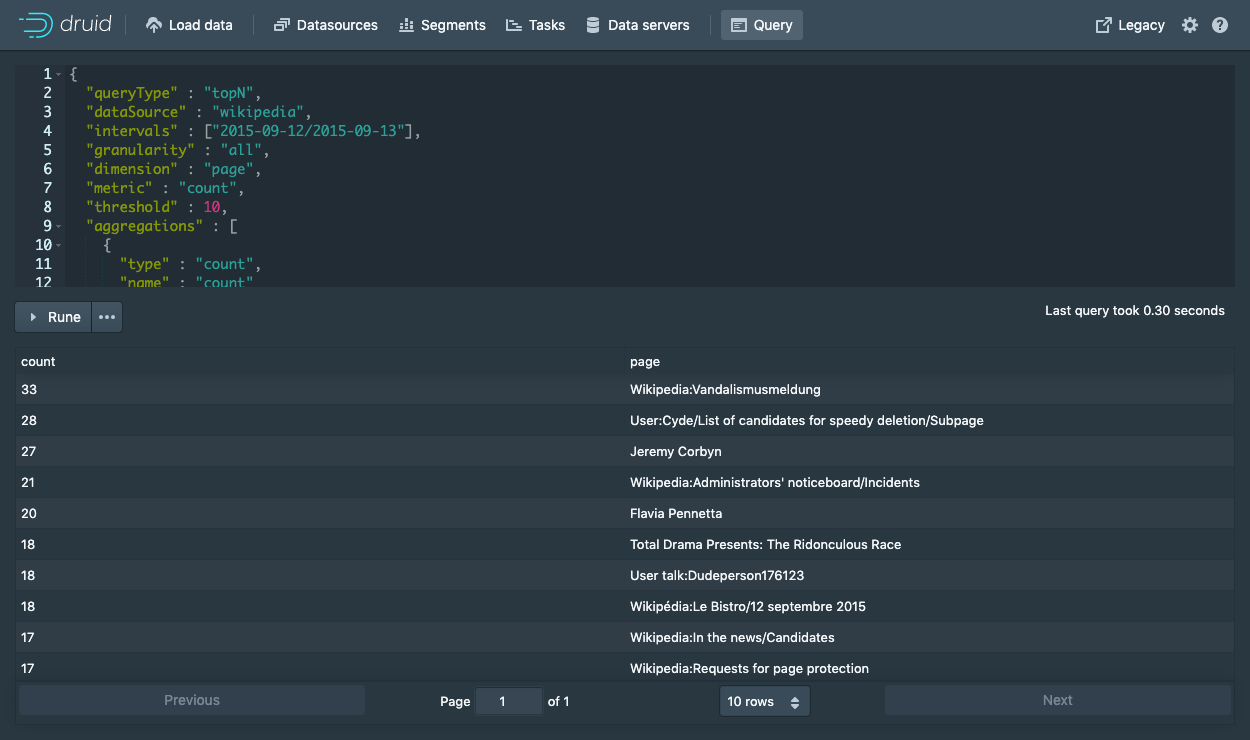
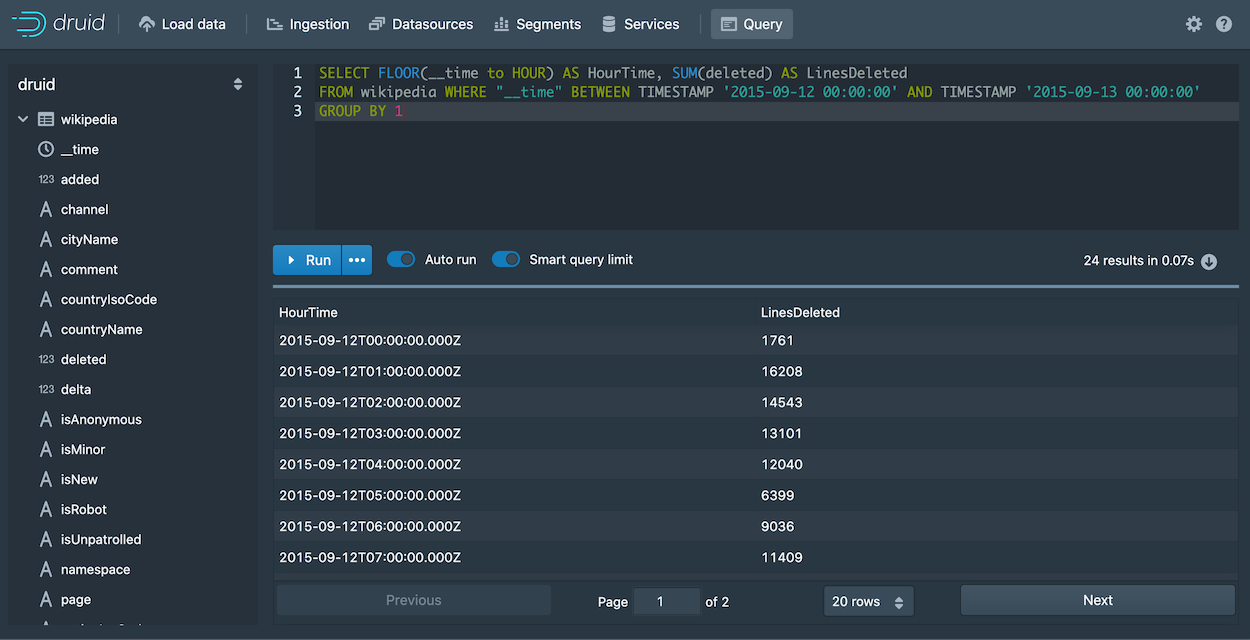
Querying doc refresh tutorial (#9879)
* Update tutorial-query.md

* First full pass complete

* Smoothing over, a bit

* link and spell checking

* Update querying.md

* Review comments; screenshot fixes

* Making ports consistent, pending confirmation 

Switching to the Router port, to make this be consistent with the tutorial ports, but can switch back here and there if it should be 8082 instead.

* Resizing screenshot

* Update querying.md

* Review feedback incorporated.

diff --git a/docs/tutorials/tutorial-query.md b/docs/tutorials/tutorial-query.md
@@ -24,56 +24,164 @@ sidebar_label: "Querying data"
   -->
 
 
-This tutorial will demonstrate how to query data in Apache Druid, with examples for Druid SQL and Druid's native query format.
+This tutorial demonstrates how to query data in Apache Druid using SQL.  
 
-The tutorial assumes that you've already completed one of the 4 ingestion tutorials, as we will be querying the sample Wikipedia edits data.
+It assumes that you've completed the [Quickstart](../tutorials/index.md) 
+or one of the following tutorials, since we'll query datasources that you would have created
+by following one of them:
 
 * [Tutorial: Loading a file](../tutorials/tutorial-batch.md)
 * [Tutorial: Loading stream data from Kafka](../tutorials/tutorial-kafka.md)
 * [Tutorial: Loading a file using Hadoop](../tutorials/tutorial-batch-hadoop.md)
 
-Druid queries are sent over HTTP.
-The Druid console includes a view to issue queries to Druid and nicely format the results.
+There are various ways to run Druid SQL queries: from the Druid console, using a command line utility
+and by posting the query by HTTP. We'll look at each of these. 
 
-## Druid SQL queries
 
-Druid supports a dialect of SQL for querying.
+## Query SQL from the Druid console
 
-This query retrieves the 10 Wikipedia pages with the most page edits on 2015-09-12.
+The Druid console includes a view that makes it easier to build and test queries, and 
+view their results. 
+
+1. Start up the Druid cluster, if it's not already running, and open the Druid console in your web
+browser. 
+
+2. Click **Query** from the header to open the Query view:  
+
+   ![Query view](../assets/tutorial-query-01.png "Query view")
+
+   You can always write queries directly in the edit pane, but the Query view also provides 
+   facilities to help you construct SQL queries, which we will use to generate a starter query. 
+
+3. Expand the wikipedia datasource tree in the left pane. We'll
+create a query for the page dimension.  
+
+4. Click `page` and then **Show:page** from the menu: 
+
+   ![Query select page](../assets/tutorial-query-02.png "Query select page")
+
+   A SELECT query appears in the query edit pane and immediately runs. However, in this case, the query 
+   returns no data, since by default the query filters for data from the last day, while our data is considerably
+   older than that. Let's remove the filter.  
+
+5. In the datasource tree, click `__time` and **Remove Filter**. 
+
+   ![Clear WHERE filter](../assets/tutorial-query-03.png "Clear WHERE filter")
+
+6. Click **Run** to run the query.   
+
+   You should now see two columns of data, a page name and the count:
+
+   ![Query results](../assets/tutorial-query-04.png "Query results")
+
+   Notice that the results are limited in the console to about a hundred, by default, due to the **Smart query limit** 
+   feature. This helps users avoid inadvertently running queries that return an excessive amount of data, possibly
+   overwhelming their system. 
+
+7. Let's edit the query directly and take a look at a few more query building features in the editor. 
+   Click in the query edit pane and make the following changes: 
+
+   1.  Add a line after the first column, `"page"` and Start typing the name of a new column, `"countryName"`. Notice that the autocomplete menu suggests column names, functions, keywords, and more. Choose "countryName" and 
+add the new column to the GROUP BY clause as well, either by name or by reference to its position, `2`.  
+
+   2. For readability, replace `Count` column name with `Edits`, since the `COUNT()` function actually
+returns the number of edits for the page. Make the same column name change in the ORDER BY clause as well. 
+
+      The `COUNT()` function is one of many functions available for use in Druid SQL queries. You can mouse over a function name
+      in the autocomplete menu to see a brief description of a function. Also, you can find more information in the Druid 
+      documentation; for example, the `COUNT()` function is documented in 
+      [Aggregation functions](../querying/sql.md#aggregation-functions). 
+
+   The query should now be:
+
+   ```sql
+   SELECT
+     "page",
+     "countryName",
+     COUNT(*) AS "Edits"
+   FROM "wikipedia"
+   GROUP BY 1, 2
+   ORDER BY "Edits" DESC
+   ``` 
+
+   When you run the query again, notice that we're getting the new dimension,`countryName`, but for most of the rows, its value 
+   is null. Let's 
+   show only rows with a `countryName` value.
+
+8. Click the countryName dimension in the left pane and choose the first filtering option. It's not exactly what we want, but
+we'll edit it by hand. The new WHERE clause should appear in your query. 
+
+8. Modify the WHERE clause to exclude results that do not have a value for countryName: 
+
+   ```sql
+   WHERE "countryName" IS NOT NULL
+   ``` 
+   Run the query again. You should now see the top edits by country:  
+
+   ![Finished query](../assets/tutorial-query-035.png "Finished query")
+
+9. Under the covers, every Druid SQL query is translated into a query in the JSON-based _Druid native query_ format before it runs
+ on data nodes. You can view the native query for this query by clicking `...` and **Explain SQL Query**. 
+
+   While you can use Druid SQL for most purposes, familiarity with native query is useful for composing complex queries and for troubleshooting 
+performance issues. For more information, see [Native queries](../querying/querying.md). 
+
+   ![Explain query](../assets/tutorial-query-06.png "Explain query")
+
+    > Another way to view the explain plan is by adding EXPLAIN PLAN FOR to the front of your query, as follows:
+    >
+    >```sql
+    >EXPLAIN PLAN FOR
+    >SELECT
+    >  "page",
+    >  "countryName",
+    >  COUNT(*) AS "Edits"
+    >FROM "wikipedia"
+    >WHERE "countryName" IS NOT NULL
+    >GROUP BY 1, 2
+    >ORDER BY "Edits" DESC
+    >```
+    >This is particularly useful when running queries 
+    from the command line or over HTTP.
+
+
+9. Finally, click  `...`  and **Edit context** to see how you can add additional parameters controlling the execution of the query execution. In the field, enter query context options as JSON key-value pairs, as described in [Context flags](../querying/query-context.md).  
+
+That's it! We've built a simple query using some of the query builder features built into the Druid Console. The following
+sections provide a few more example queries you can try. Also, see [Other ways to invoke SQL queries](#other-ways-to-invoke-sql-queries) to learn how
+to run Druid SQL from the command line or over HTTP. 
+
+## More Druid SQL examples
+
+Here is a collection of queries to try out:
+
+### Query over time
 
 ```sql
-SELECT page, COUNT(*) AS Edits
-FROM wikipedia
-WHERE TIMESTAMP '2015-09-12 00:00:00' <= "__time" AND "__time" < TIMESTAMP '2015-09-13 00:00:00'
-GROUP BY page
-ORDER BY Edits DESC
-LIMIT 10
+SELECT FLOOR(__time to HOUR) AS HourTime, SUM(deleted) AS LinesDeleted
+FROM wikipedia WHERE "__time" BETWEEN TIMESTAMP '2015-09-12 00:00:00' AND TIMESTAMP '2015-09-13 00:00:00'
+GROUP BY 1
 ```
 
-Let's look at the different ways to issue this query.
+![Query example](../assets/tutorial-query-07.png "Query example")
 
-### Query SQL via the console
+### General group by
 
-You can issue the above query from the console.
+```sql
+SELECT channel, page, SUM(added)
+FROM wikipedia WHERE "__time" BETWEEN TIMESTAMP '2015-09-12 00:00:00' AND TIMESTAMP '2015-09-13 00:00:00'
+GROUP BY channel, page
+ORDER BY SUM(added) DESC
+```
 
-![Query autocomplete](../assets/tutorial-query-01.png "Query autocomplete")
+![Query example](../assets/tutorial-query-08.png "Query example")
 
-The console query view provides autocomplete functionality with inline documentation.
 
-![Query options](../assets/tutorial-query-02.png "Query options")
-
-You can also configure extra [context flags](../querying/query-context.md) to be sent with the query from the `...` options menu.
-
-Note that the console will (by default) wrap your SQL queries in a limit where appropriate so that queries such as `SELECT * FROM wikipedia` can complete.
-You can turn off this behavior from the `Smart query limit` toggle.
-
-![Query actions](../assets/tutorial-query-03.png "Query actions")
-
-The query view provides contextual actions that can write and modify the query for you. 
+## Other ways to invoke SQL queries
 
 ### Query SQL via dsql
 
-For convenience, the Druid package includes a SQL command-line client, located at `bin/dsql` from the Druid package root.
+For convenience, the Druid package includes a SQL command-line client, located at `bin/dsql` in the Druid package root.
 
 Let's now run `bin/dsql`; you should see the following prompt:
 
@@ -107,7 +215,8 @@ Retrieved 10 rows in 0.06s.
 
 ### Query SQL over HTTP
 
-The SQL queries are submitted as JSON over HTTP.
+
+You can submit queries directly to the Druid Broker over HTTP. 
 
 The tutorial package includes an example file that contains the SQL query shown above at `quickstart/tutorial/wikipedia-top-pages-sql.json`. Let's submit that query to the Druid Broker:
 
@@ -162,150 +271,8 @@ The following results should be returned:
 ]
 ```
 
-### More Druid SQL examples
-
-Here is a collection of queries to try out:
-
-#### Query over time
-
-```sql
-SELECT FLOOR(__time to HOUR) AS HourTime, SUM(deleted) AS LinesDeleted
-FROM wikipedia WHERE "__time" BETWEEN TIMESTAMP '2015-09-12 00:00:00' AND TIMESTAMP '2015-09-13 00:00:00'
-GROUP BY 1
-```
-
-![Query example](../assets/tutorial-query-03.png "Query example")
-
-#### General group by
-
-```sql
-SELECT channel, page, SUM(added)
-FROM wikipedia WHERE "__time" BETWEEN TIMESTAMP '2015-09-12 00:00:00' AND TIMESTAMP '2015-09-13 00:00:00'
-GROUP BY channel, page
-ORDER BY SUM(added) DESC
-```
-
-![Query example](../assets/tutorial-query-04.png "Query example")
-
-#### Select raw data
-
-```sql
-SELECT user, page
-FROM wikipedia WHERE "__time" BETWEEN TIMESTAMP '2015-09-12 02:00:00' AND TIMESTAMP '2015-09-12 03:00:00'
-LIMIT 5
-```
-
-![Query example](../assets/tutorial-query-05.png "Query example")
-
-### Explain query plan
-
-Druid SQL has the ability to explain the query plan for a given query.
-In the console this functionality is accessible from the `...` button.
-
-![Explain query](../assets/tutorial-query-06.png "Explain query")
-
-If you are querying in other ways you can get the plan by prepending `EXPLAIN PLAN FOR ` to a Druid SQL query.
-
-Using a query from an example above:
-
-`EXPLAIN PLAN FOR SELECT page, COUNT(*) AS Edits FROM wikipedia WHERE "__time" BETWEEN TIMESTAMP '2015-09-12 00:00:00' AND TIMESTAMP '2015-09-13 00:00:00' GROUP BY page ORDER BY Edits DESC LIMIT 10;`
-
-```bash
-dsql> EXPLAIN PLAN FOR SELECT page, COUNT(*) AS Edits FROM wikipedia WHERE "__time" BETWEEN TIMESTAMP '2015-09-12 00:00:00' AND TIMESTAMP '2015-09-13 00:00:00' GROUP BY page ORDER BY Edits DESC LIMIT 10;
-┌─────────────────────────────────────────────────────────────────────────────────────────────────────────────────────────────────────────────────────────────────────────────────────────────────────────────────────────────────────────────────────────────────────────────────────────────────────────────────────────────────────────────────────────────────────────────────────────────────────────────────────────────────────────────────────────────────────────────────────────────────────────────────────────────────────────────────────────┐
-│ PLAN                                                                                                                                                                                                                                                                                                                                                                                                                                                                                                                                                    │
-├─────────────────────────────────────────────────────────────────────────────────────────────────────────────────────────────────────────────────────────────────────────────────────────────────────────────────────────────────────────────────────────────────────────────────────────────────────────────────────────────────────────────────────────────────────────────────────────────────────────────────────────────────────────────────────────────────────────────────────────────────────────────────────────────────────────────────────────┤
-│ DruidQueryRel(query=[{"queryType":"topN","dataSource":{"type":"table","name":"wikipedia"},"virtualColumns":[],"dimension":{"type":"default","dimension":"page","outputName":"d0","outputType":"STRING"},"metric":{"type":"numeric","metric":"a0"},"threshold":10,"intervals":{"type":"intervals","intervals":["2015-09-12T00:00:00.000Z/2015-09-13T00:00:00.001Z"]},"filter":null,"granularity":{"type":"all"},"aggregations":[{"type":"count","name":"a0"}],"postAggregations":[],"context":{},"descending":false}], signature=[{d0:STRING, a0:LONG}]) │
-└─────────────────────────────────────────────────────────────────────────────────────────────────────────────────────────────────────────────────────────────────────────────────────────────────────────────────────────────────────────────────────────────────────────────────────────────────────────────────────────────────────────────────────────────────────────────────────────────────────────────────────────────────────────────────────────────────────────────────────────────────────────────────────────────────────────────────────────┘
-Retrieved 1 row in 0.03s.
-```
-
-
-## Native JSON queries
-
-Druid's native query format is expressed in JSON.
-
-### Native query via the console
-
-You can issue native Druid queries from the console's Query view.
-
-Here is a query that retrieves the 10 Wikipedia pages with the most page edits on 2015-09-12.
-
-```json
-{
-  "queryType" : "topN",
-  "dataSource" : "wikipedia",
-  "intervals" : ["2015-09-12/2015-09-13"],
-  "granularity" : "all",
-  "dimension" : "page",
-  "metric" : "count",
-  "threshold" : 10,
-  "aggregations" : [
-    {
-      "type" : "count",
-      "name" : "count"
-    }
-  ]
-}
-```
-
-Simply paste it into the console to switch the editor into JSON mode.
-
-![Native query](../assets/tutorial-query-07.png "Native query")
-
-
-### Native queries over HTTP
-
-We have included a sample native TopN query under `quickstart/tutorial/wikipedia-top-pages.json`:
-
-Let's submit this query to Druid:
-
-```bash
-curl -X 'POST' -H 'Content-Type:application/json' -d @quickstart/tutorial/wikipedia-top-pages.json http://localhost:8888/druid/v2?pretty
-```
-
-You should see the following query results:
-
-```json
-[ {
-  "timestamp" : "2015-09-12T00:46:58.771Z",
-  "result" : [ {
-    "count" : 33,
-    "page" : "Wikipedia:Vandalismusmeldung"
-  }, {
-    "count" : 28,
-    "page" : "User:Cyde/List of candidates for speedy deletion/Subpage"
-  }, {
-    "count" : 27,
-    "page" : "Jeremy Corbyn"
-  }, {
-    "count" : 21,
-    "page" : "Wikipedia:Administrators' noticeboard/Incidents"
-  }, {
-    "count" : 20,
-    "page" : "Flavia Pennetta"
-  }, {
-    "count" : 18,
-    "page" : "Total Drama Presents: The Ridonculous Race"
-  }, {
-    "count" : 18,
-    "page" : "User talk:Dudeperson176123"
-  }, {
-    "count" : 18,
-    "page" : "Wikipédia:Le Bistro/12 septembre 2015"
-  }, {
-    "count" : 17,
-    "page" : "Wikipedia:In the news/Candidates"
-  }, {
-    "count" : 17,
-    "page" : "Wikipedia:Requests for page protection"
-  } ]
-} ]
-```
-
-
 ## Further reading
 
-The [Queries documentation](../querying/querying.md) has more information on Druid's native JSON queries.
+See the [Druid SQL documentation](../querying/sql.md) for more information on using Druid SQL queries.
 
-The [Druid SQL documentation](../querying/sql.md) has more information on using Druid SQL queries.
+See the [Queries documentation](../querying/querying.md) for more information on Druid native queries.

diff --git a/docs/querying/querying.md b/docs/querying/querying.md
@@ -35,6 +35,13 @@ posted like this:
 curl -X POST '<queryable_host>:<port>/druid/v2/?pretty' -H 'Content-Type:application/json' -H 'Accept:application/json' -d @<query_json_file>
 ```
 
+> Replace `<queryable_host>:<port>` with the appropriate address and port for your system. For example, if running the quickstart configuration, replace `<queryable_host>:<port>` with localhost:8888. 
+
+You can also enter them directly in the Druid console's Query view. Simply pasting a native query into the console switches the editor into JSON mode.
+
+![Native query](../assets/native-queries-01.png "Native query")
+
+
 Druid's native query language is JSON over HTTP, although many members of the community have contributed different
 [client libraries](/libraries.html) in other languages to query Druid.
 
@@ -44,7 +51,7 @@ The Content-Type/Accept Headers can also take 'application/x-jackson-smile'.
 curl -X POST '<queryable_host>:<port>/druid/v2/?pretty' -H 'Content-Type:application/json' -H 'Accept:application/x-jackson-smile' -d @<query_json_file>
 ```
 
-Note: If Accept header is not provided, it defaults to value of 'Content-Type' header.
+> If the Accept header is not provided, it defaults to the value of 'Content-Type' header.
 
 Druid's native query is relatively low level, mapping closely to how computations are performed internally. Druid queries
 are designed to be lightweight and complete very quickly. This means that for more complex analysis, or to build
